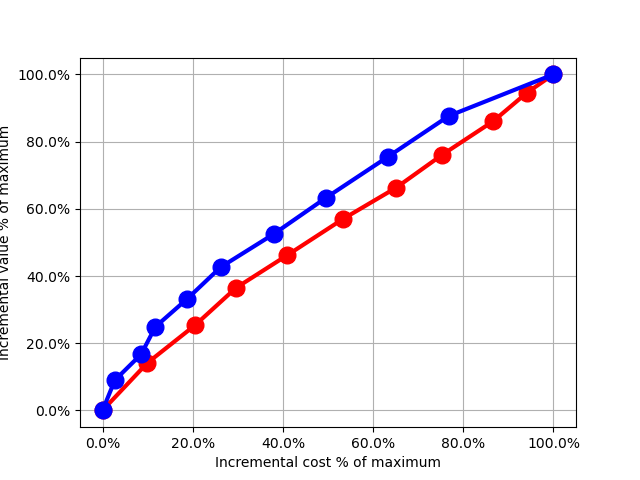
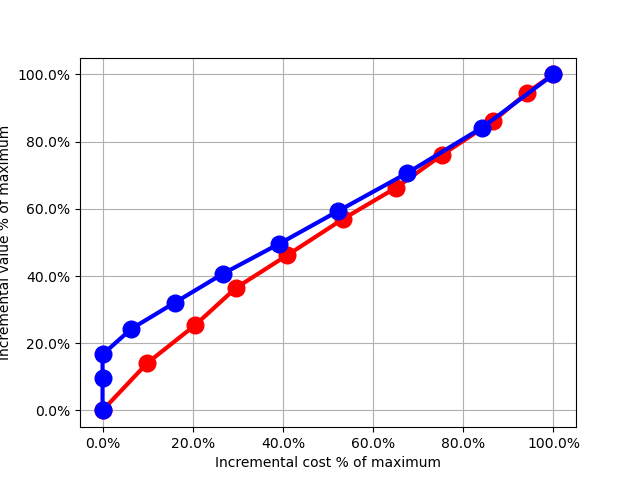
refine drm and pb model: get pb model graph

diff --git a/Model/percentile_barrier.py b/Model/percentile_barrier.py
@@ -18,7 +18,7 @@ class percentile_barrier_model(nn.Module):
         super(percentile_barrier_model, self).__init__()
         self.hidden_dim = hidden_dim
         self.p_quantile = p_quantile
-        self.temperature = nn.Parameter(torch.tensor(initial_temp, dtype=torch.float64))
+        self.temperature = initial_temp
         
         if hidden_dim > 0:
             self.hidden_layer = nn.Linear(input_dim, hidden_dim)
@@ -54,32 +54,29 @@ def compute_objective_pb(D_tre, D_unt, c_tre, c_unt, o_tre, o_unt, model):
     # Forward pass: compute rank scores
     h_tre_rnkscore, h_unt_rnkscore= model(D_tre, D_unt)
     
+    s_tre = F.softmax(h_tre_rnkscore.squeeze(), dim=0)
+    s_unt = F.softmax(h_unt_rnkscore.squeeze(), dim=0)
+    
     # Sort scores
-    h_tre_sorted, _ = torch.sort(h_tre_rnkscore, descending=True, dim=0)
-    h_unt_sorted, _ = torch.sort(h_unt_rnkscore, descending=True, dim=0)
+    h_tre_sorted, _ = torch.sort(s_tre, descending=True, dim=0)
+    h_unt_sorted, _ = torch.sort(s_unt, descending=True, dim=0)
     
     # Top-k selection
-    size_tre = D_tre.size(0)
-    size_unt = D_unt.size(0)
-    top_k_tre = int(torch.ceil(size_tre * model.p_quantile).item())
-    top_k_unt = int(torch.ceil(size_unt * model.p_quantile).item())
+    top_k_tre = int(torch.ceil(h_tre_sorted.size(0) * model.p_quantile).item())
+    top_k_unt = int(torch.ceil(h_unt_sorted.size(0) * model.p_quantile).item())
     
     intercept_tre = h_tre_sorted[top_k_tre - 1]
     intercept_unt = h_unt_sorted[top_k_unt - 1]
     
     # Apply sigmoid with temperature
-    h_tre = torch.sigmoid(model.temperature * (h_tre_rnkscore - intercept_tre))
-    h_unt = torch.sigmoid(model.temperature * (h_unt_rnkscore - intercept_unt))
-    
-    # Compute softmax weights
-    s_tre = torch.softmax(h_tre, dim=0)
-    s_unt = torch.softmax(h_unt, dim=0)
+    h_tre = torch.sigmoid(model.temperature * (s_tre - intercept_tre))
+    h_unt = torch.sigmoid(model.temperature * (s_unt - intercept_unt))
     
     # Compute weighted sums for treatment effects
-    dc_tre = torch.sum(s_tre * c_tre)
-    dc_unt = torch.sum(s_unt * c_unt)
-    do_tre = torch.sum(s_tre * o_tre)
-    do_unt = torch.sum(s_unt * o_unt)
+    dc_tre = torch.sum(s_tre * h_tre * c_tre)
+    dc_unt = torch.sum(s_unt * h_unt * c_unt)
+    do_tre = torch.sum(s_tre * h_tre * o_tre)
+    do_unt = torch.sum(s_unt * h_unt * o_unt)
     
     # Compute the objective
     obj = (dc_tre - dc_unt) / (do_tre - do_unt)  # Adding a small epsilon to avoid division by zero
@@ -87,7 +84,7 @@ def compute_objective_pb(D_tre, D_unt, c_tre, c_unt, o_tre, o_unt, model):
     return obj
 
 
-def optimize_model_pb(model, D_tre, D_unt, c_tre, c_unt, o_tre, o_unt, lr=0.001):
+def optimize_model_pb(model, D_tre, D_unt, c_tre, c_unt, o_tre, o_unt, lr=0.001, epochs = 10):
     """
     Optimizes the model using the Adam optimizer.
 
@@ -105,13 +102,13 @@ def optimize_model_pb(model, D_tre, D_unt, c_tre, c_unt, o_tre, o_unt, lr=0.001)
     - obj: torch.Tensor, the computed objective.
     """
     optimizer = Adam(model.parameters(), lr=lr)
-
-    obj = compute_objective_pb(D_tre, D_unt, c_tre, c_unt, o_tre, o_unt, model)
-
     optimizer.zero_grad()
-    (-obj).backward()  # Negative objective for maximization
-    optimizer.step()
-
+    
+    for epoch in range(epochs):
+        obj = compute_objective_pb(D_tre, D_unt, c_tre, c_unt, o_tre, o_unt, model)
+        (-obj).backward()  # Negative objective for maximization
+        optimizer.step()
+        print(f"Epoch {epoch}/{epoch}, Objective: {obj.item()}")
     return obj
 
 """

diff --git a/run_script.py b/run_script.py
@@ -61,7 +61,7 @@ mplt, aucc, percs, cpits, cpitcohorts = ex.AUC_cpit_cost_curve_deciles_cohort_vi
 )
 
 # note x forwarding is not working for pyplot.show()
-mplt.savefig('test_aucc_plot.png')
+# mplt.savefig('test_aucc_plot.png')
 
 
 
@@ -109,19 +109,18 @@ drm_model = SimpleTCModelDNN(input_dim= 46, num_hidden= 92)
 h_tre_rnkscore, h_unt_rnkscore = drm_model.forward(D_tre=treat_nX_tr, D_unt=untreat_nX_tr)
 
 # Training
-drm_epochs = 10
+drm_epochs = 100
 save_path="model_drm.pth"
 
-for epoch in range(drm_epochs):
-    drm_obj = optimize_model(model=drm_model, 
-                            D_tre=treat_nX_tr, 
-                            D_unt=untreat_nX_tr, 
-                            c_tre=treat_cost_tr, 
-                            c_unt=untreat_cost_tr, 
-                            o_tre=treat_value_tr, 
-                            o_unt=untreat_value_tr)
-    print(f"Epoch {epoch + 1}/{drm_epochs}, Objective: {drm_obj.item()}")
-    
+drm_obj = optimize_model(model=drm_model, 
+                        D_tre=treat_nX_tr, 
+                        D_unt=untreat_nX_tr, 
+                        c_tre=treat_cost_tr, 
+                        c_unt=untreat_cost_tr, 
+                        o_tre=treat_value_tr, 
+                        o_unt=untreat_value_tr,
+                        epochs=drm_epochs)
+
 torch.save(drm_model.state_dict(), save_path)
 print(f"Model saved to {save_path}")
 
@@ -142,7 +141,7 @@ mplt_drm, aucc_drm, percs_drm, cpits_drm, cpitcohorts_drm = ex.AUC_cpit_cost_cur
     'b',
 )
 
-mplt_drm.savefig('test_aucc_plot_drm.png')
+# mplt_drm.savefig('test_aucc_plot_drm.png')
 
 
 # ----- Percentil Barrier Model ----- # 
@@ -157,18 +156,17 @@ pb_model = percentile_barrier_model(input_dim=46, hidden_dim=138, initial_temp=i
 h_tre_rnkscore_pb, h_unt_rnkscore_pb  = pb_model.forward(D_tre=treat_nX_tr, D_unt=untreat_nX_tr)
 
 # Training
-pb_epochs = 10
+pb_epochs = 150
 save_path_pb="model_pb.pth"
 
-for epoch in range(pb_epochs):
-    pb_obj = optimize_model_pb(model=pb_model, 
-                                D_tre=treat_nX_tr, 
-                                D_unt=untreat_nX_tr, 
-                                c_tre=treat_cost_tr, 
-                                c_unt=untreat_cost_tr, 
-                                o_tre=treat_value_tr, 
-                                o_unt=untreat_value_tr)
-    print(f"Epoch {epoch + 1}/{pb_epochs}, Objective: {pb_obj.item()}")
+pb_obj = optimize_model_pb(model=pb_model, 
+                            D_tre=treat_nX_tr, 
+                            D_unt=untreat_nX_tr, 
+                            c_tre=treat_cost_tr, 
+                            c_unt=untreat_cost_tr, 
+                            o_tre=treat_value_tr, 
+                            o_unt=untreat_value_tr,
+                            epochs=pb_epochs)
     
 torch.save(pb_model.state_dict(), save_path_pb)
 print(f"Model saved to {save_path_pb}")

diff --git a/Model/drm.py b/Model/drm.py
@@ -70,14 +70,14 @@ def compute_objective(h_tre_rnkscore, h_unt_rnkscore, c_tre, c_unt, o_tre, o_unt
     do_tre = torch.sum(s_tre * o_tre)
     do_unt = torch.sum(s_unt * o_unt)
 
-    obj = (dc_tre - dc_unt) / (do_tre - do_unt)
+    # obj = (dc_tre - dc_unt) / (do_tre - do_unt)
 
     # Optional differentiable version:
-    # obj = torch.log(F.relu(dc_tre - dc_unt)) - torch.log(F.relu(do_tre - do_unt))
+    obj = - F.relu(abs(dc_tre - dc_unt)) / F.relu(abs(do_tre - do_unt))
     return obj
 
 
-def optimize_model(model, D_tre, D_unt, c_tre, c_unt, o_tre, o_unt, lr=0.001):
+def optimize_model(model, D_tre, D_unt, c_tre, c_unt, o_tre, o_unt, lr=0.001, epochs = 10):
     """
     Optimizes the model using the Adam optimizer.
 
@@ -95,14 +95,16 @@ def optimize_model(model, D_tre, D_unt, c_tre, c_unt, o_tre, o_unt, lr=0.001):
     - obj: torch.Tensor, the computed objective.
     """
     optimizer = Adam(model.parameters(), lr=lr)
-
-    h_tre_rnkscore, h_unt_rnkscore = model(D_tre, D_unt)
-    obj = compute_objective(h_tre_rnkscore, h_unt_rnkscore, c_tre, c_unt, o_tre, o_unt)
-
     optimizer.zero_grad()
-    (-obj).backward()  # Negative objective for maximization
-    optimizer.step()
+    
+    for epoch in range(epochs):
+        h_tre_rnkscore, h_unt_rnkscore = model(D_tre, D_unt)
+        obj = compute_objective(h_tre_rnkscore, h_unt_rnkscore, c_tre, c_unt, o_tre, o_unt)
 
+        (-obj).backward()  # Negative objective for maximization
+        optimizer.step()
+        
+        print(f"Epoch {epoch}/{epoch}, Objective: {obj.item()}")
     return obj
 
 
